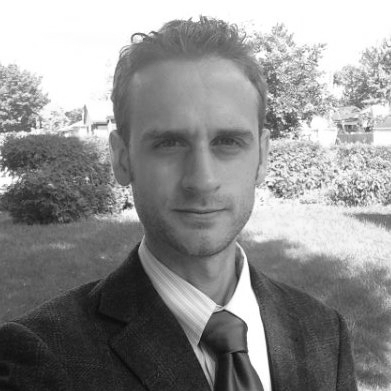
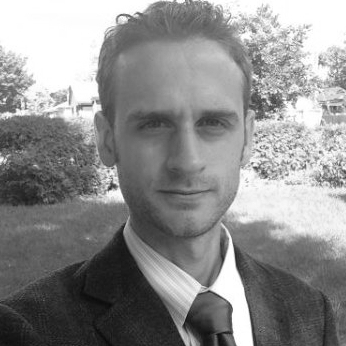
website update

diff --git a/index.html b/index.html
@@ -2,9 +2,9 @@
 <!--Jason Fleischer-->
 <html lang="en">
 <head>
-    <meta charset="utf-8"/>
-	<meta name="viewport" content="width=device-width, initial-scale=1.0, maximum-scale=1.0, user-scalable=no">
-    <title>Jason Fleischer · Computer Scientist</title>
+	<meta charset="utf-8"/>
+	<meta name="viewport" content="width=device-width, initial-scale=1">
+	<title>Jason Fleischer - Computer Scientist</title>
 	<link rel="icon" href="img/favicon.ico">
 	<link rel="stylesheet" href="css/main.css">
 	<link rel="stylesheet" href="css/normalize.css">
@@ -19,24 +19,24 @@
 </head>
 <body>
 	<div id="content" class="center-block container">
-		<nav class="navbar navbar-inverse" role="navigation">
+		<nav class="navbar navbar-inverse" >
 			<!-- Brand and toggle get grouped for better mobile display -->
 			<div class="navbar-header" >
 				<button type="button" class="navbar-toggle" data-toggle="collapse" data-target="#navbar-collapse-1">
 					<span class="sr-only">Toggle navigation</span>
-				  	<span class="icon-bar"></span>
-				  	<span class="icon-bar"></span>
-				  	<span class="icon-bar"></span>
+					<span class="icon-bar"></span>
+					<span class="icon-bar"></span>
+					<span class="icon-bar"></span>
 				</button>
-				<a id="home" onclick="homePage();" class="navbar-brand pointer" ></span>Jason Fleischer</a>
+				<a id="home" onclick="homePage();" class="navbar-brand pointer" >Jason Fleischer</a>
 			</div>
 
 			<div class="navbar-collapse collapse" id="navbar-collapse-1" >
-          		<ul class="nav navbar-nav">
-				  	<li class="pointer" id="resumeM" onclick="resumePage()">
+				<ul class="nav navbar-nav">
+					<li class="pointer" id="resumeM" onclick="resumePage()">
 						<a ><span class="glyphicon glyphicon-file"></span>&nbsp;Resume</a>
 					</li>
-					<li id="git" onclick="git()"><a href="https://www.linkedin.com/in/jason-fleischer-150242127" target="_blank">
+					<li id="linkedin" onclick="git()"><a href="https://www.linkedin.com/in/jason-fleischer-150242127" target="_blank">
 						<span class="glyphicon glyphicon-globe"></span>&nbsp;LinkedIn</a>
 					</li>
 					<li id="git" onclick="git()"><a href="https://github.com/jasonfleischer" target="_blank">
@@ -45,30 +45,32 @@
 				  	<!--<li class="pointer" id="fbM" onclick="openFaceBook()"><a href="http://www.facebook.com/Jason.R.A.Fleischer" target="_blank">
 						<span class="glyphicon glyphicon-user"></span>&nbsp;FaceBook</a>
 					</li>-->
-          		</ul>
+				</ul>
 				<!--<a id="pIemailMe" class="navbar-right large" style="display:hidden; padding-top:11px;" href=
 				"mailto:jason_fleischer@hotmail.ca?Subject=Jason%20Fleischer%20-%20Developer">
 						<span class="glyphicon glyphicon-envelope"></span>&nbsp;&nbsp;Email Me</a>	
-        		</div>-->
+					</div>-->
+			</div>
 		</nav>
 		<div id='personalInfo' >
 			<div> 
 				<div class="panel panel-default banner"> 
 					<div class="panel-body" >
 						<div id="name" style="float:left;"><strong>Jason <span class="hide-mobile">R. A.</span> Fleischer</strong></div>
-		 	
-								<img id="photo" src="img/me_2.jpg" style="float:right;">
-								<!--<a id="vCard" href="doc/vCard.vcf"> <span class="glyphicon glyphicon-download"></span>&nbsp;vCard</a>-->
-				
+
+						<img id="photo" src="img/me_2.jpg" alt="Jason's Picture">
+						<!--<a id="vCard" href="doc/vCard.vcf"> <span class="glyphicon glyphicon-download"></span>&nbsp;vCard</a>-->
+
+						<br/>
 						<br/>
 						<br/>
 
-		 				<div id="phone" class="pointer large" onclick="window.location.href='tel:613-407-0602';"> 
+						<div id="phone" class="pointer large" onclick="window.location.href='tel:613-407-0602';"> 
 							<small><strong><i>Cell:</i></strong></small> 613-407-0602&nbsp;&nbsp;
 							<span class="glyphicon glyphicon-phone"></span> 
 						</div> 
-					   <div id="email" class="pointer large" onclick="window.location.href ='mailto:jason_fleischer@hotmail.ca?Subject=Jason%20Fleischer%20-%20Developer';"> 
-							<small><strong><i>Email:</i></strong></small>&nbsp;jason_fleischer@hotmail.ca&nbsp;&nbsp;
+						<div id="email" class="pointer large" onclick="window.location.href ='mailto:jason_fleischer@hotmail.ca?Subject=Jason%20Fleischer%20-%20Developer';"> 
+							<small><strong><i>Email:&nbsp;</i></strong></small>jason_fleischer@hotmail.ca&nbsp;&nbsp;
 							<span class="glyphicon glyphicon-envelope"></span>
 						</div>
 						<div id="residence" class="pointer large" onclick="window.open('https://www.google.com/maps/place/6+Bedford+Crescent,+Ottawa,+ON,+Canada')">
@@ -80,34 +82,36 @@
 				<br/>
 				<div class="panel panel-default">
 					<div class="panel-body" >
-						
+
 						<h3>Bachelor of Computer Science</h3> 
 						<h4><i>Mobile and Social Networking Applications (Co-op Education)</i></h4>
 						<h5 class="pointer" onclick="window.open('http://www.carleton.ca')">Carleton University, Ottawa, ON</h5> 
-						<h6/>Graduated: January 2015</h6> 
-						
+						<p>Graduated: January 2015</p> 
+
 						<br/>
 						<div class="pointer"><strong>About Myself:</strong></div>
 						<br/>
-				    	<div id="bioContent">
+						<div id="bioContent">
 							<p class="indent">
-								As indicated in my resume, I once pursued a career in aviation. I received my commercial pilot’s license from Algonquin Flight Center along with other ratings and licenses. I have also gained valuable work experience from my employment with Transwest Air, a small airline that operates in Saskatchewan. This experience includes micro-management, dispatching, billing, computer and multiple ground handling skills. After being laid off, due to lack of work within this company, I decided to enroll at Carleton University for computer science. Although I still have an interest in aviation, my future at this time is focused in the field of computer science.							</p>
+								As indicated in my resume, I once pursued a career in aviation. I received my commercial pilot’s license from Algonquin Flight Center along with other ratings and licenses. I have also gained valuable work experience from my employment with Transwest Air, a small airline that operates in Saskatchewan. This experience includes micro-management, dispatching, billing, computer and multiple ground handling skills. After being laid off, due to lack of work within this company, I decided to enroll at Carleton University for computer science. Although I still have an interest in aviation, my future at this time is focused in the field of computer science.
+							</p>
 							<p class="indent">
-								In January 2015, I graduated from Carleton University with a Bachelors degree in computer science. My chosen stream at Carleton was called mobile and social networking applications. During my time at Carleton I had three co-op placements. My first coop placement was for 8-months at Public Works Government Services. Here I gained experience in web and mobile phone development. My second coop placement was at The Ottawa Hospital for 4-months. Here I continued to develop my SQL and web development skills. My last coop position was at HCN (Hotel Communication Network Inc.) as an Android developer. After graduation, I continued to work full-time with HCN for two years. At HCN I really grew as a developer and person. I am currently working for Paradigm Electrons as both an Android and IOS developer.						</p>		
-								<br />
-				    	</div>		
+								In January 2015, I graduated from Carleton University with a Bachelors degree in computer science. My chosen stream at Carleton was called mobile and social networking applications. During my time at Carleton I had three co-op placements. My first coop placement was for 8-months at Public Works Government Services. Here I gained experience in web and mobile phone development. My second coop placement was at The Ottawa Hospital for 4-months. Here I continued to develop my SQL and web development skills. My last coop position was at HCN (Hotel Communication Network Inc.) as an Android developer. After graduation, I continued to work full-time with HCN for two years. At HCN I really grew as a developer and person. I am currently working for Paradigm Electrons as both an Android and IOS developer.						
+							</p>		
+							<br />
+						</div>		
 					</div>
-		    	</div>  
-		
+				</div>  
+
 			</div>
 		</div>
 		<div id='resume' class="panel panel-default">
-		  	<div class="panel-body">
+			<div class="panel-body">
 				<div class="resourcecontent resourcepdf">
-	  				<object id="resourceobject" data="doc/JasonFleischerResume.pdf" type="application/pdf">
+					<object id="resourceobject" data="doc/JasonFleischerResume.pdf" type="application/pdf">
 						<param name="src" value="doc/JasonFleischerResume.pdf">
 						Click <a href="doc/JasonFleischerResume.pdf">HERE</a> to download my resume
-	 				 </object>
+					</object>
 				</div>
 			</div>
 		</div>	

diff --git a/css/main.css b/css/main.css
@@ -40,7 +40,7 @@ h3 {
 #content{ max-width:1000px; margin-top:20px; }
 #subH1{ color: #EEE; }
 #contactInfo{ font-size:18px; }
-#git, #fbM, #resumeM{ padding: 0px 20px 0px 20px  !important; }
+#git, #linkedin, #fbM, #resumeM{ padding: 0px 20px 0px 20px  !important; }
 #home{ padding-right: 25px  !important; }
 #personalInfo{ margin: 0px 5px 0px 5px;}
 #name{ font-size:25px; }
@@ -55,14 +55,20 @@ border-style: none;
 .banner{
 	/*background-image:url('../img/banner.jpg'); background-repeat: no-repeat;*/
 	    background-color: darkslategrey !important;
-	    background-image: linear-gradient(to bottom right, darkslategrey, #dddddd);
+	    background-image: linear-gradient(to bottom right, #2f4f4f, #b5c7c7);
 	margin: 0px  0px 0px 0px !important;
 	color: #FFF !important;
 	border-top-right-radius: 8px;
 	border-top-left-radius: 8px;
-	text-shadow: 1px 1px #000000;
+	text-shadow: 1px 1px #777;
+}
+#name {
+	text-shadow: 1px 1px #444;
 }
 #photo {
 	border-radius: 8px;
 	height:130px;
+	margin-top: 3px;
+	margin-right: 3px;
+	float: right;
 }
